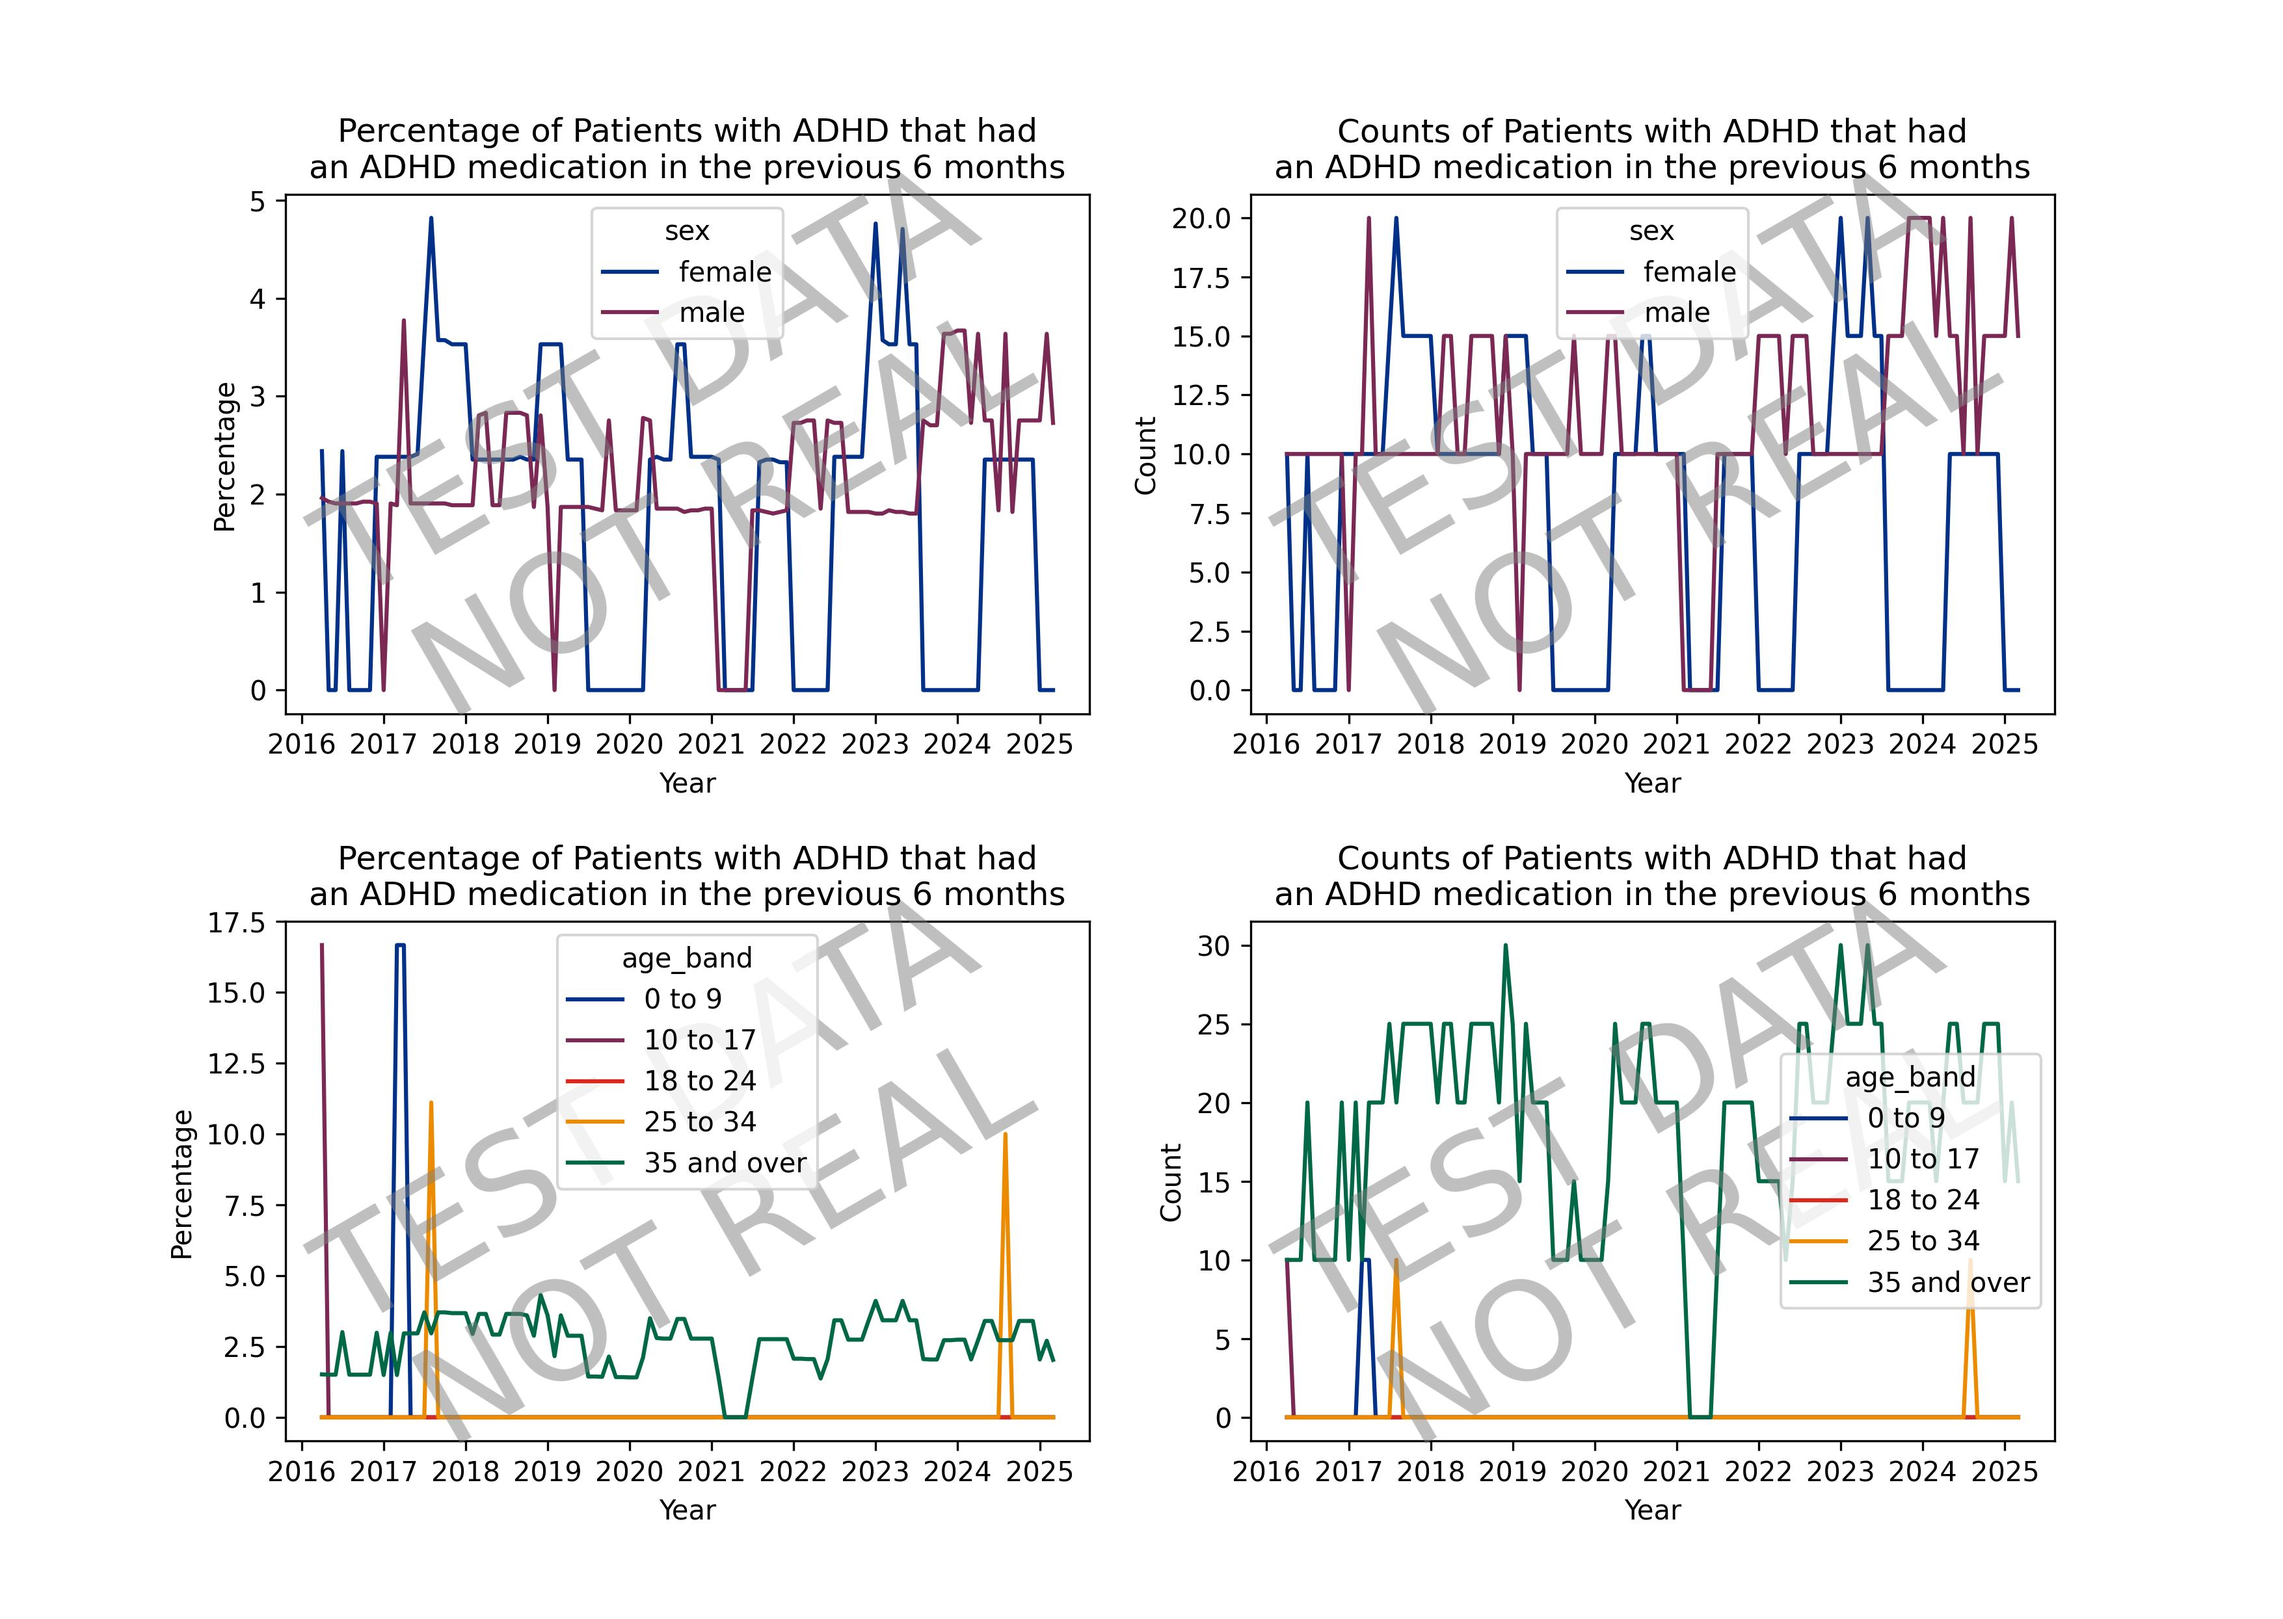
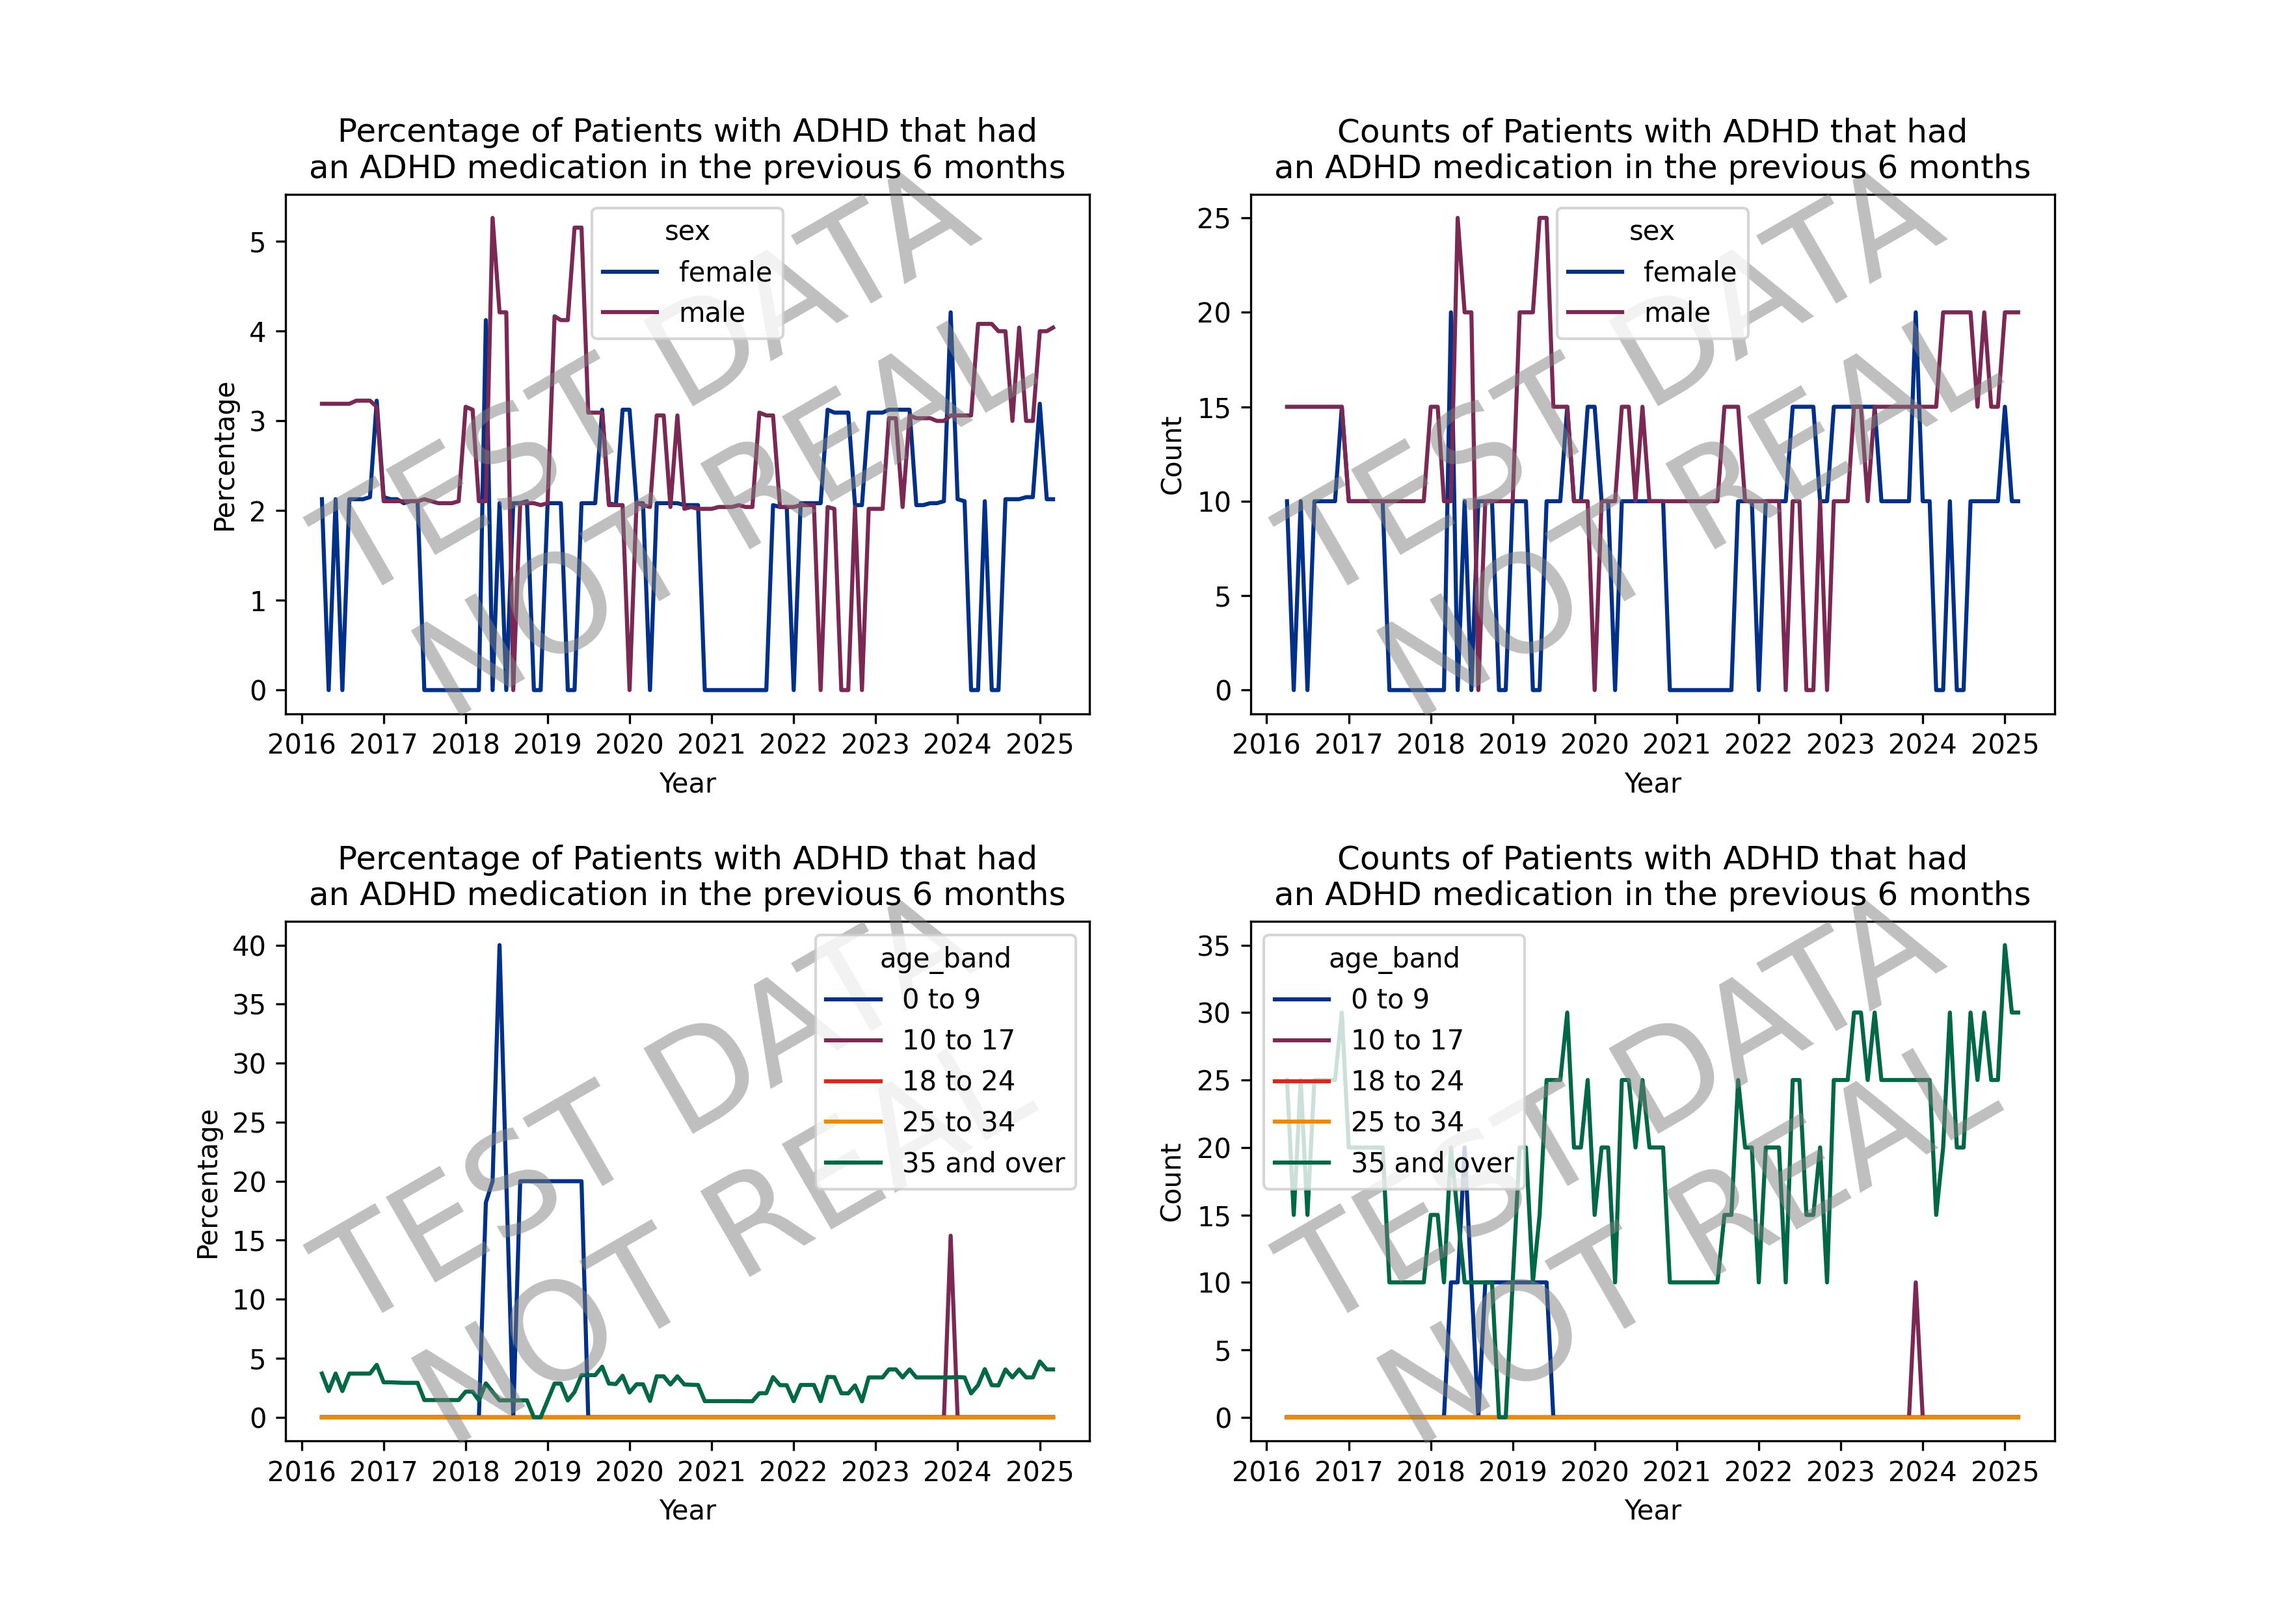
added BA plots

diff --git a/docs/graph_production/utils.py b/docs/graph_production/utils.py
@@ -1,6 +1,7 @@
 import pandas as pd
 import matplotlib.pyplot as plt
 import seaborn as sns
+import numpy as np
 
 import matplotlib.ticker as mtick
 import matplotlib.transforms as transforms
@@ -32,7 +33,7 @@ def grouped_by_demographics(table, demo, cols_to_sum = ['numerator','denominator
 
     Parameters:
         table (pd.DataFrame): The input DataFrame containing the data to be grouped and summarized.
-        demo (str): The name of the demographic column to group by (e.g., 'gender', 'age_group').
+        demo (str): The name of the demographic column to group by (e.g., 'sex', 'age_group').
         cols_to_sum (list of str, optional): List of column names to sum within each group. 
             Defaults to ['numerator', 'denominator'].
         year_col (list of str, optional): List of column names representing the year or interval to group by.
@@ -227,28 +228,40 @@ def get_sex_and_age_groups(table):
 
 def watermark_plot(axes, watermark_string):
     """
-    Adds a watermark text to each subplot in the given axes.
+    Adds a watermark text to one or multiple matplotlib axes.
 
     Parameters
     ----------
-    axes : numpy.ndarray or matplotlib.axes.Axes
-        An array of matplotlib Axes objects or a single Axes object to which the watermark will be added.
+    axes : matplotlib.axes.Axes or array-like of Axes
+        The axes object(s) to which the watermark will be added. Can be a single Axes instance or an array-like collection of Axes.
     watermark_string : str
-        The text to be used as the watermark.
+        The text to use as the watermark.
 
     Returns
     -------
-    axes : numpy.ndarray or matplotlib.axes.Axes
-        The axes with the watermark text added to each subplot.
+    matplotlib.axes.Axes or array-like of Axes
+        The axes object(s) with the watermark added.
+
+    Notes
+    -----
+    The watermark is placed at the center of each axes, with a gray color, partial transparency, and rotated by 30 degrees.
     """
 
-    for ax in axes.flat:
-        ax.text(
-            0.5, 0.5, watermark_string,
-            transform=ax.transAxes,
-            fontsize=50, color='gray', alpha=0.5,
-            ha='center', va='center', rotation=30
-        )
+    if hasattr(axes, "__len__"):
+        for ax in axes.flat:
+            ax.text(
+                0.5, 0.5, watermark_string,
+                transform=ax.transAxes,
+                fontsize=50, color='gray', alpha=0.5,
+                ha='center', va='center', rotation=30
+            )
+    else:
+        axes.text(
+                0.5, 0.5, watermark_string,
+                transform=axes.transAxes,
+                fontsize=50, color='gray', alpha=0.5,
+                ha='center', va='center', rotation=30
+            )
     return axes
     
 def plot_time_from_diagnosis_to_medication(time_between_dia_and_med, nhs_palette):
@@ -409,6 +422,50 @@ def plot_monthly_interval_charts(table3_percentage, nhs_palette):
     plt.subplots_adjust(hspace=0.4)
     return fig, axes
 
+def create_mpl_ax(ax=None):
+    """Helper function for when a single plot axis is needed.
+
+    Parameters
+    ----------
+    ax : AxesSubplot, optional
+        If given, this subplot is used to plot in instead of a new figure being
+        created.
+
+    Returns
+    -------
+    fig : Figure
+        If `ax` is None, the created figure.  Otherwise the figure to which
+        `ax` is connected.
+    ax : AxesSubplot
+        The created axis if `ax` is None, otherwise the axis that was passed
+        in.
+
+    Notes
+    -----
+    This function imports `matplotlib.pyplot`, which should only be done to
+    create (a) figure(s) with ``plt.figure``.  All other functionality exposed
+    by the pyplot module can and should be imported directly from its
+    Matplotlib module.
+
+    See Also
+    --------
+    create_mpl_fig
+
+    Examples
+    --------
+    A plotting function has a keyword ``ax=None``.  Then calls:
+
+    >>> from statsmodels.graphics import utils
+    >>> fig, ax = utils.create_mpl_ax(ax)
+    """
+    if ax is None:
+        plt = _import_mpl()
+        fig = plt.figure()
+        ax = fig.add_subplot(111)
+    else:
+        fig = ax.figure
+
+    return fig, ax
 
 def mean_diff_plot(m1, m2, sd_limit=1.96, ax=None, scatter_kwds=None,
                    mean_line_kwds=None, limit_lines_kwds=None):
@@ -552,3 +609,65 @@ def mean_diff_plot(m1, m2, sd_limit=1.96, ax=None, scatter_kwds=None,
     ax.tick_params(labelsize=13)
     fig.tight_layout()
     return fig
+
+def plot_bland_altman(table_2_tpp, table_2_emis, bland_altman_plt, custom_scaling = False):
+    """
+    Generates a Bland–Altman plot to compare ADHD diagnosis prevalence between TPP and EMIS+Cegedim datasets.
+
+    Parameters
+    ----------
+    table_2_tpp : pandas.DataFrame
+        DataFrame containing prevalence ratios from the TPP dataset.
+    table_2_emis : pandas.DataFrame
+        DataFrame containing prevalence ratios from the EMIS+Cegedim dataset.
+    bland_altman_plt : dict
+        Dictionary containing plot configuration, including:
+            - 'joining_cols': list of column names to join on.
+            - 'suffixes': tuple of suffixes to apply to overlapping columns.
+    custom_scaling : bool, optional
+        If True, scales the y-axis limits by 1.4 for custom visualization. Default is False.
+
+    Returns
+    -------
+    f : matplotlib.figure.Figure
+        The matplotlib Figure object containing the plot.
+    ax : matplotlib.axes.Axes
+        The matplotlib Axes object containing the plot.
+
+    Notes
+    -----
+    - The function merges the two input DataFrames on specified columns, drops rows with missing values,
+      and plots the Bland–Altman plot using the 'ratio_tpp' and 'ratio_emis' columns.
+    - The plot visualizes the mean and difference in prevalence ratios between the two datasets.
+    """
+
+
+    joined_data = table_2_tpp.merge(
+        table_2_emis,
+        how='left',
+        on=bland_altman_plt['joining_cols'],
+        suffixes=bland_altman_plt['suffixes']
+    )
+    # Clean the join
+    joined_data = joined_data.dropna()
+
+    f, ax = plt.subplots(1, figsize=(8, 5))
+    mean_diff_plot(
+        joined_data['ratio_tpp'] * 100,
+        joined_data['ratio_emis'] * 100,
+        ax=ax
+    )
+
+    ax.set_title(
+        "Bland–Altman plot between ADHD Diagnosis\nPrevalence between TPP and EMIS+Cegedim",
+        fontsize=18
+    )
+    ax.set_ylabel("Prevalence from TPP minus\nPrevalence from EMIS+Cegedim, %")
+    ax.set_xlabel("Mean Prevalence TPP and EMIS+Cegedim, %")
+
+    if custom_scaling:
+        y_lower, y_upper = ax.get_ylim()
+        ax.set_ylim([y_lower * 1.4, y_upper * 1.4])
+
+    plt.tight_layout()
+    return f, ax

diff --git a/docs/graph_production/main.py b/docs/graph_production/main.py
@@ -1,7 +1,12 @@
 import pandas as pd
 import seaborn as sns
 import matplotlib.pyplot as plt
-from config import dia_plots, nhs_palette, user_time_plots, monthly_interval_plot
+from config import (dia_plots, 
+                    nhs_palette, 
+                    user_time_plots, 
+                    monthly_interval_plot, 
+                    bland_altman_plt
+)
 import utils 
 
 """
@@ -28,7 +33,15 @@ fig.savefig(dia_plots['file_name'], format="jpeg", dpi=300)
 Ploting the Bland-Altman plot
 """
 
+table_2_tpp = pd.read_csv(bland_altman_plt['file_path_tpp']) #Change for TPP
+table_2_emis = pd.read_csv(bland_altman_plt['file_path_emis'])
 
+# Call the function
+fig, axes = utils.plot_bland_altman(table_2_tpp, table_2_emis, bland_altman_plt, custom_scaling = False)
+
+axes = utils.watermark_plot(axes,bland_altman_plt['watermark'])
+
+plt.savefig(bland_altman_plt['file_name'], format="jpeg", dpi=300)
 
 """
 Ploting tables with monthly intervals

diff --git a/docs/graph_production/config.py b/docs/graph_production/config.py
@@ -16,9 +16,11 @@ monthly_interval_plot = {
 
 bland_altman_plt = {
     'file_path_emis':'docs/emis_calculation/emis_measure.csv',
-    'file_path_tpp' : 'output/Table_2_Prevalence_of_ADHD_Diagnosis.csv'
-    'file_name':'docs/graph_production/Table_3_percentage_of_people_with_ADHD_then_have_had_meds_in_the_last_6_months.jpeg',
+    'file_path_tpp' : 'output/Table_2_Prevalence_of_ADHD_Diagnosis.csv',
+    'file_name':'docs/graph_production/Bland_Altman_plot_between_ADHD_Diagnosis_Prevalence.jpeg',
     'watermark':'TEST DATA\nNOT REAL',
+    'joining_cols' : ['interval_start','interval_end','sex','age_band'],
+    'suffixes' : ('_tpp','_emis'),
 }
 
 dia_plots = {

diff --git a/analysis/Table_2_Prevalence_of_ADHD_Diagnosis.py b/analysis/Table_2_Prevalence_of_ADHD_Diagnosis.py
@@ -11,7 +11,7 @@ from codelists import adhd_codelist, adhdrem_codelist
 from variables_library import last_matching_event, add_datestamp
 
 measures = create_measures()
-measures.configure_dummy_data(population_size=10)
+measures.configure_dummy_data(population_size=1000000)
 
 # Population variables
 has_registration = practice_registrations.spanning(

diff --git a/docs/graph_production/README.md b/docs/graph_production/README.md
@@ -13,6 +13,9 @@ This folder contains scripts and configuration files used to generate visualizat
 ## Comparing Prevalence
 ![Prevalence Plot](/docs/graph_production/Table_2_Prevalence_of_ADHD_Diagnosis.jpeg)
 
+## Ploting the Bland-Altman plot
+![Bland-Altman plot](/docs/graph_production/Bland_Altman_plot_between_ADHD_Diagnosis_Prevalence.jpeg)
+
 ## Comparing Monthly Intervals
 ![Monthly Intervals](/docs/graph_production/Table_3_percentage_of_people_with_ADHD_then_have_had_meds_in_the_last_6_months.jpeg)
 
